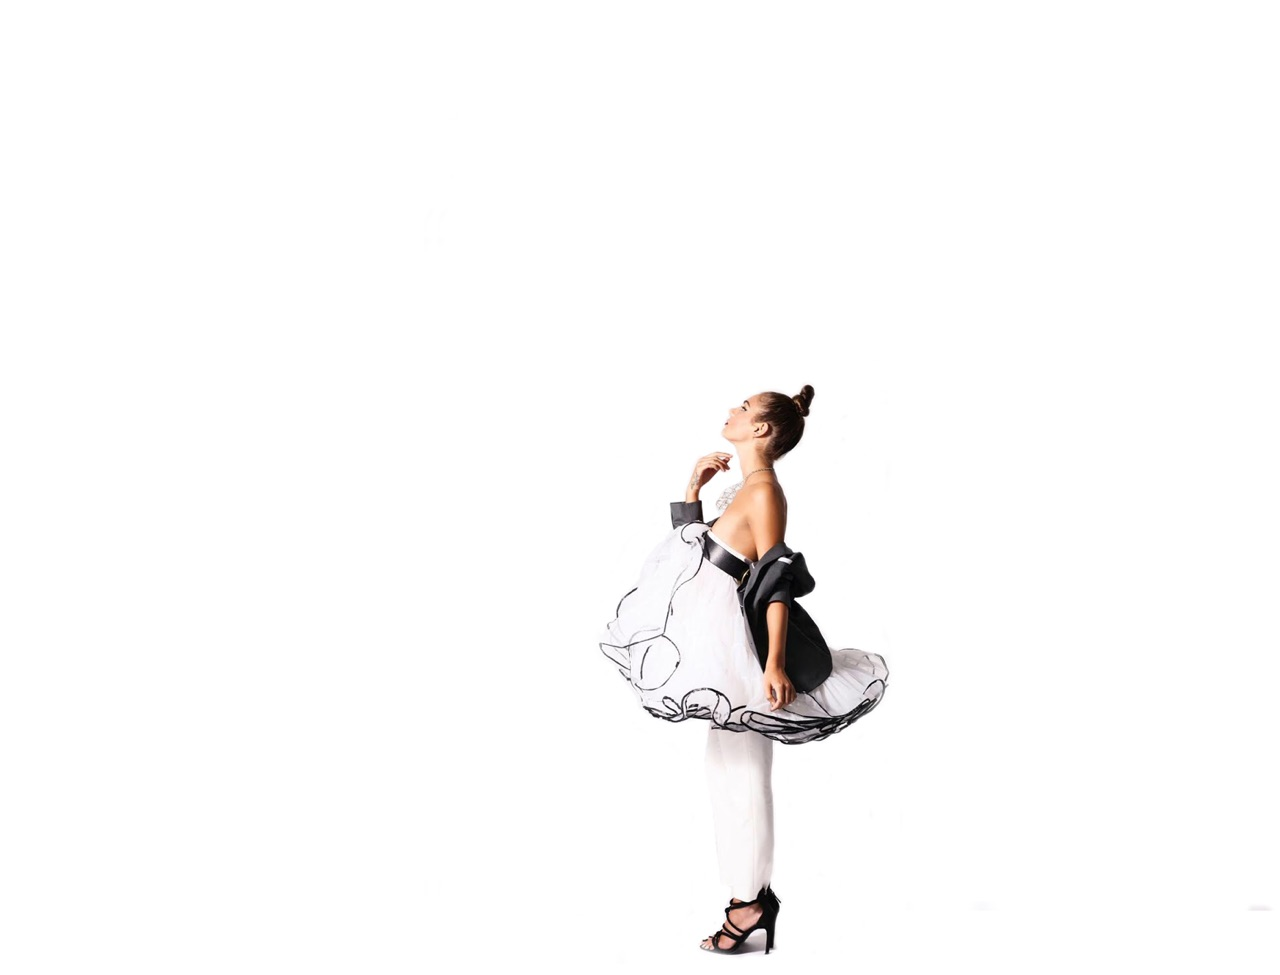
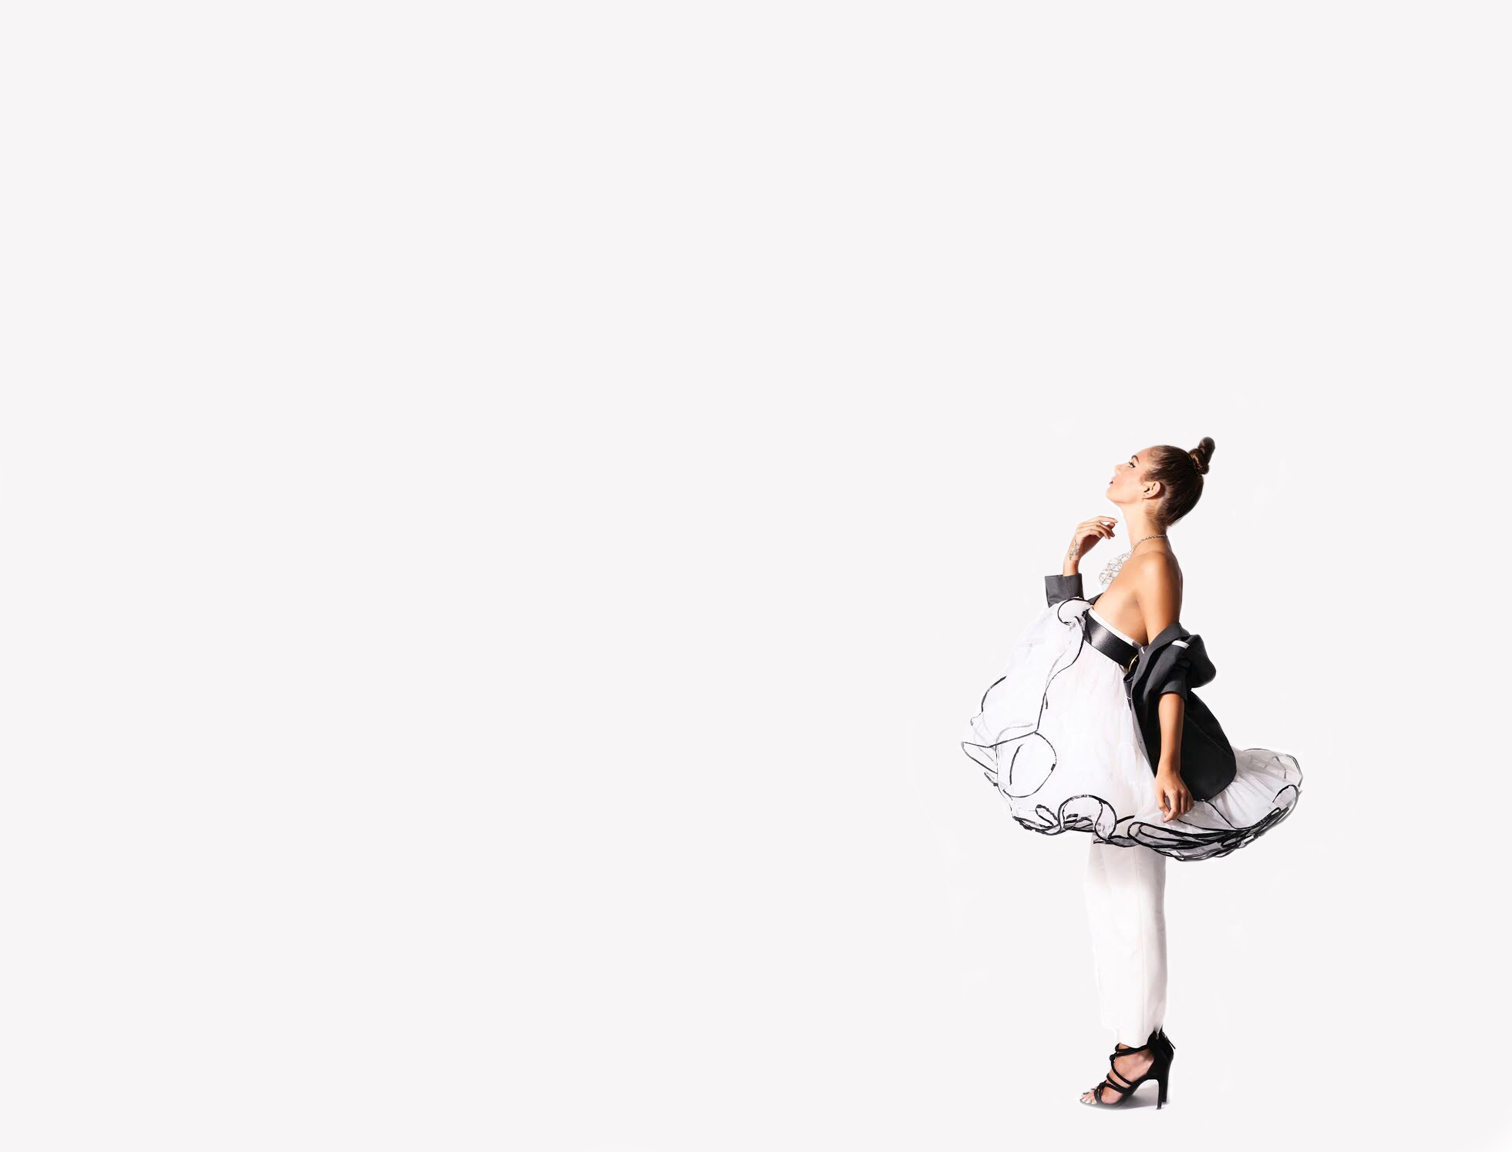
minor changes for a header

Changed region(s): [[0.4688, 0.3692, 0.875, 0.9846]]

diff --git a/client/assets/styles/grayscale.css b/client/assets/styles/grayscale.css
@@ -1,7 +1,7 @@
 body {
   width: 100%;
   height: 100%;
-  font-family: "Lora", "Helvetica Neue", Helvetica, Arial, sans-serif;
+  font-family: "Open Sans", "Helvetica Neue", Helvetica, Arial, sans-serif;
   color: black;
   background-color: white;
 }
@@ -63,8 +63,8 @@ a:focus {
   border-bottom: 1px solid rgba(255, 255, 255, 0.3);
   text-transform: uppercase;
   font-family: "Montserrat", "Helvetica Neue", Helvetica, Arial, sans-serif;
-  background-color: darkgrey;
-  opacity: 0.7;
+  background-color: white;
+  opacity: 0.9;
 }
 .navbar-custom .navbar-toggle {
   color: black;
@@ -120,7 +120,7 @@ a:focus {
   }
   .navbar-custom.top-nav-collapse {
     padding: 0;
-    background: darkgrey;
+    background: white;
     border-bottom: 1px solid rgba(255, 255, 255, 0.3);
   }
 }
@@ -134,7 +134,7 @@ a:focus {
   padding: 100px 0;
   text-align: center;
   color: black;
-  background: url(/images/intro-bg-4.jpg) no-repeat bottom center scroll;
+  background: url(/images/intro-bg-3.jpg) no-repeat bottom center scroll;
   background-attachment: fixed;
   /*opacity: 0.5;*/
   -webkit-background-size: cover;
@@ -158,6 +158,7 @@ a:focus {
 .intro{
   height: 450px;
 }
+
 @media (min-width: 768px) {
   .intro {
     height: 100%;
@@ -174,7 +175,7 @@ a:focus {
   }
   .intro-body{
     background-color: lightgrey;
-    opacity: 0.7;
+    background: rgba(255, 255, 255, 0.5);
   }
 }
 .btn-circle {

diff --git a/client/assets/styles/styles.css b/client/assets/styles/styles.css
@@ -8,14 +8,14 @@ body .flip-clock-dot, body .flip-clock-small-wrapper .flip-clock-dot {
 body .flip-clock-wrapper .flip-clock-meridium a, body .flip-clock-small-wrapper .flip-clock-meridium a {
   color: #323434;
 }
-
+/*
 #count_container {
   width: 100%;
   position: relative;
   left: 15%;
   margin-left: auto;
   margin-right: auto;
-}
+}*/
 
 
 #myModal{
